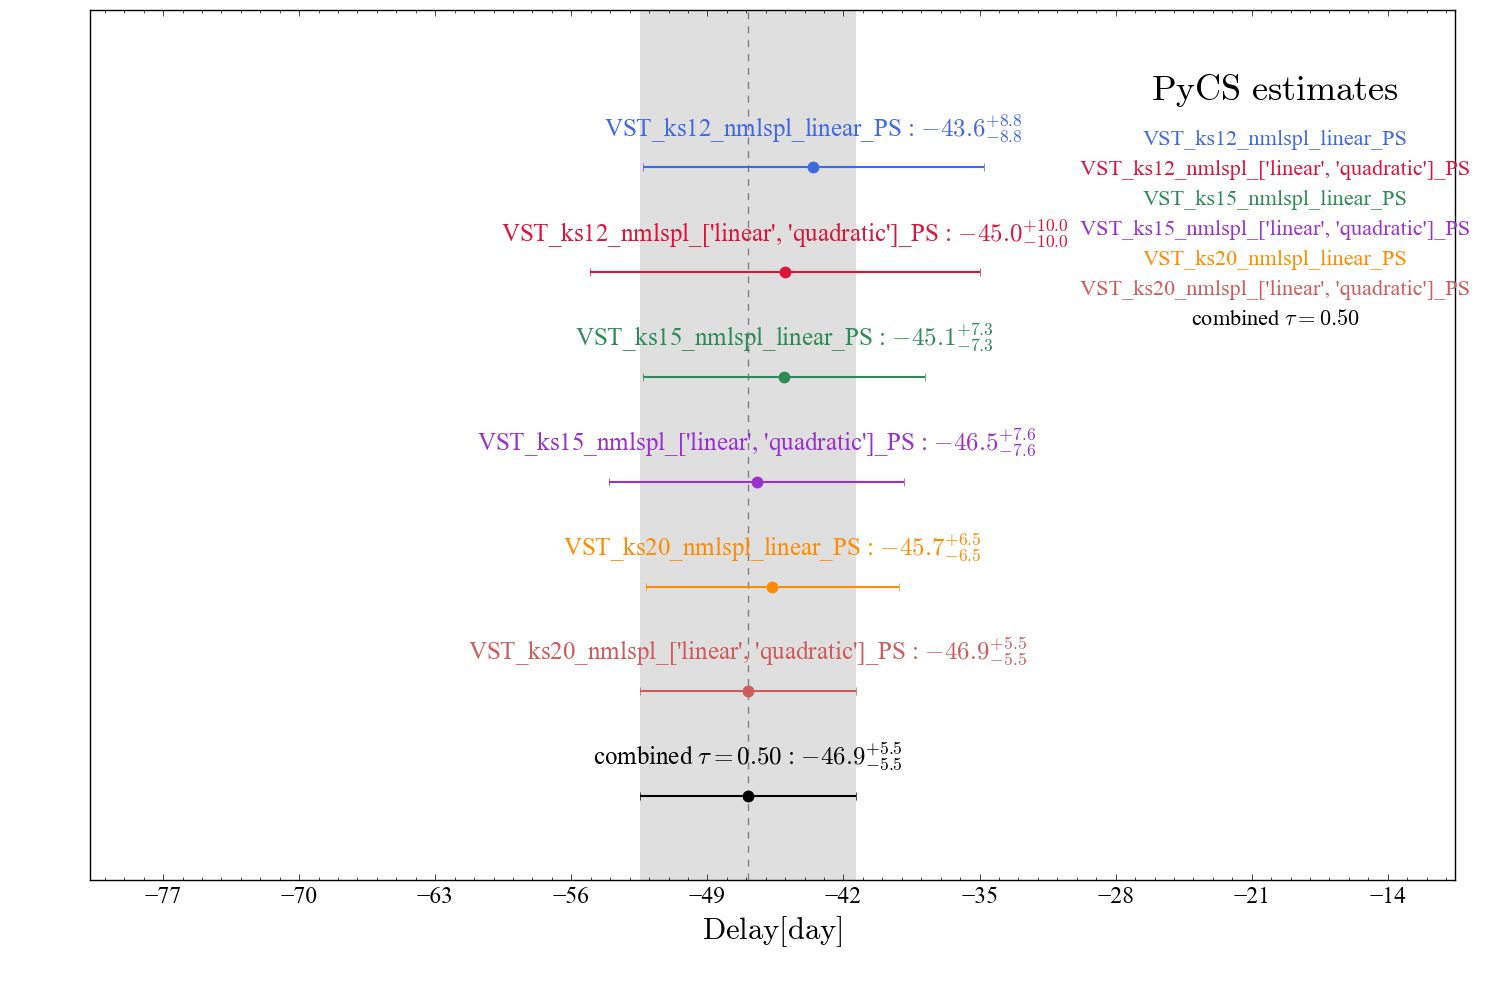
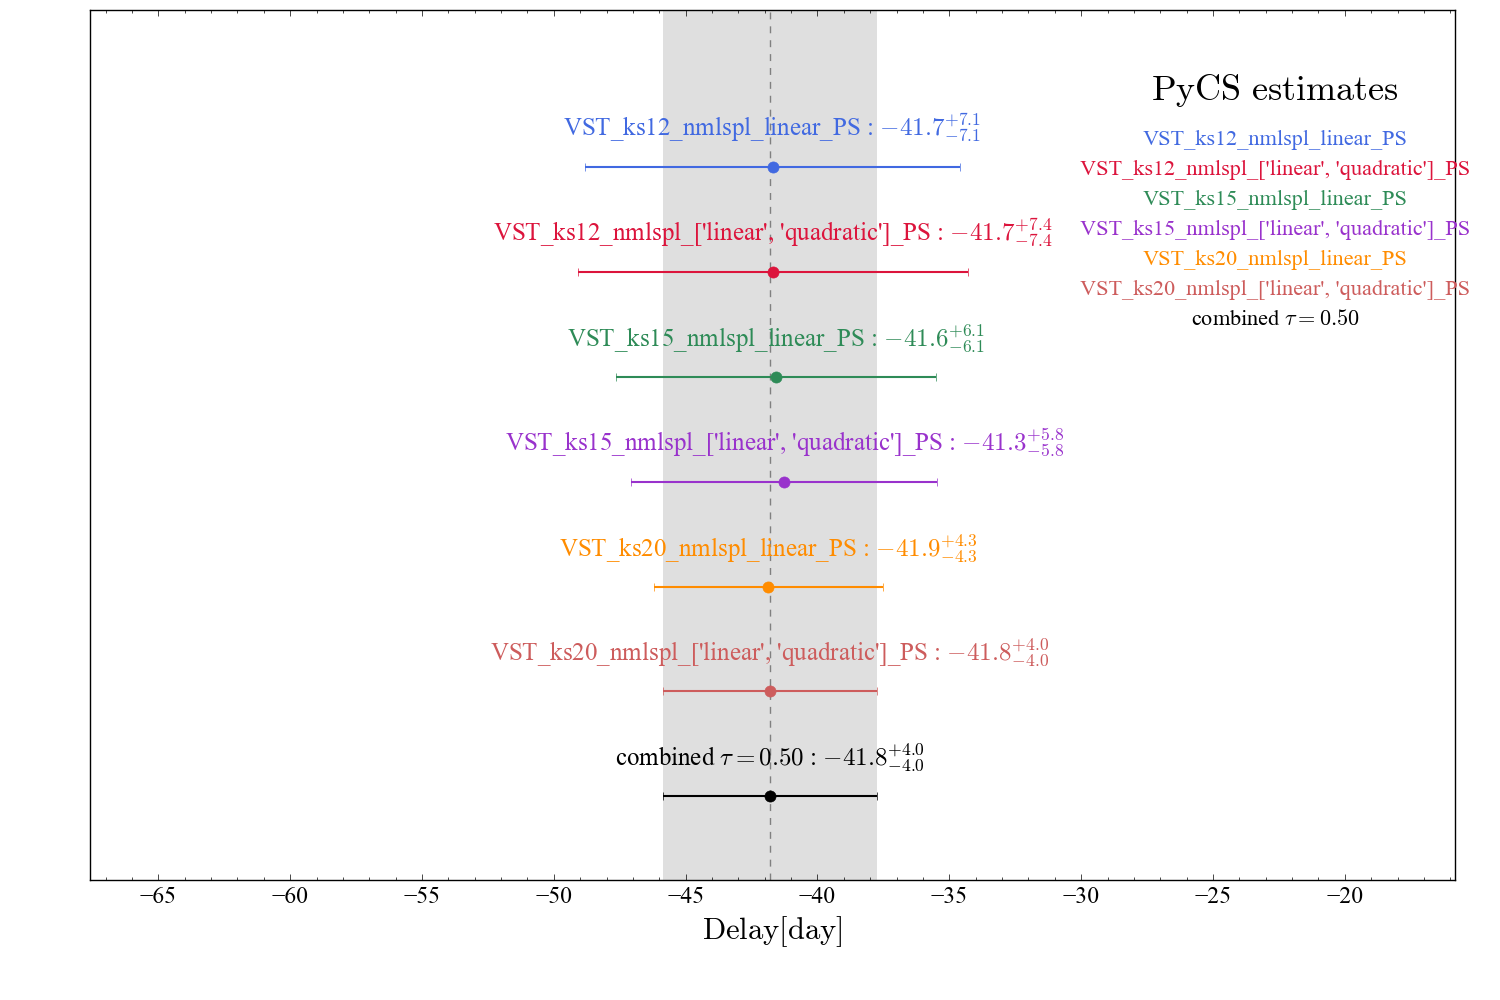
update 2026-11-02 16:33

diff --git a/J2329-1258_td.html b/J2329-1258_td.html
@@ -271,7 +271,7 @@
                                         <div class="delay-list">
                                                 <div class="delay-row">
                                                     <span class="pair">A<span>&ndash;</span>B</span>
-                                                    <span class="value">&minus;46.9<span class="err">&plusmn; 5.5</span><span class="unit">days</span></span>
+                                                    <span class="value">&minus;41.8<span class="err">&plusmn; 4.0</span><span class="unit">days</span></span>
                                                 </div>
                                         </div>
                                         <p class="td-note">Combined estimate (&tau; = 0.50) over all PyCS3 spline configurations.</p>

diff --git a/tools/build_td.py b/tools/build_td.py
@@ -205,7 +205,7 @@ T = {
                plots={'delays':'marginalisation_spline_sigma_0.50.png','curves':'multi_plot_combinations.png'})]),
  'J2329-1258': dict(badge='VST P4-P5 Monitoring', images='Two lensed images (A, B)',
     cutout=('J2329-1258_cutout.png', 'HST/F814W cutout with images A and B marked.'),
-    sols=[dict(delays=[('A-B','-46.9','5.5')],
+    sols=[dict(delays=[('A-B','-41.8','4.0')],
                plots={'delays':'marginalisation_spline_sigma_0.50.png','curves':'multi_plot.png'})]),
 }
 
